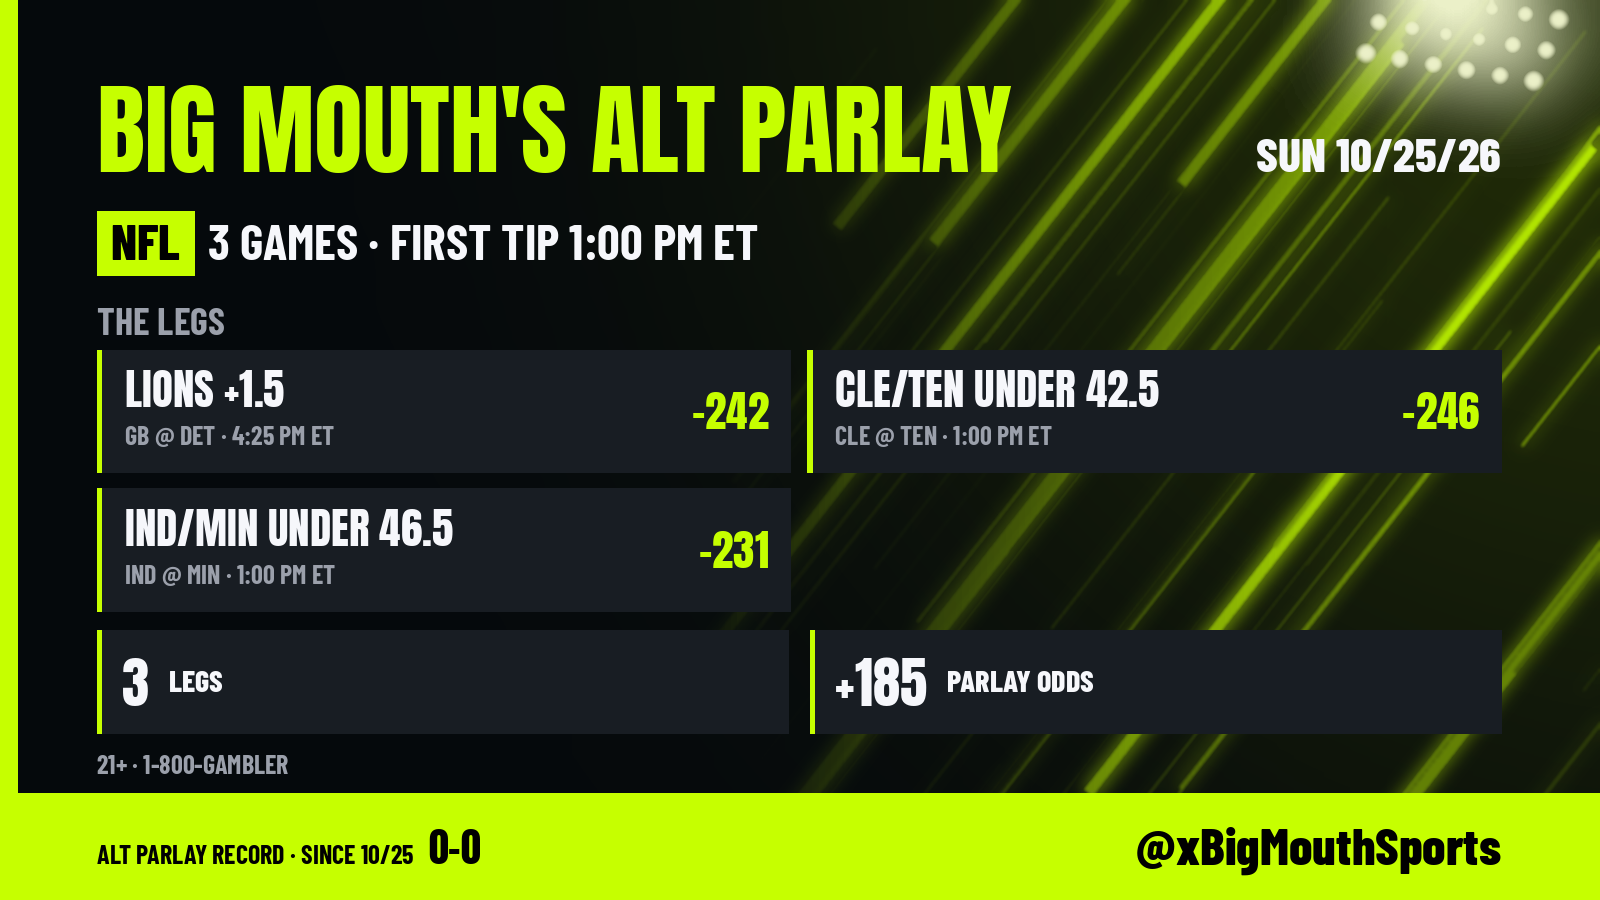
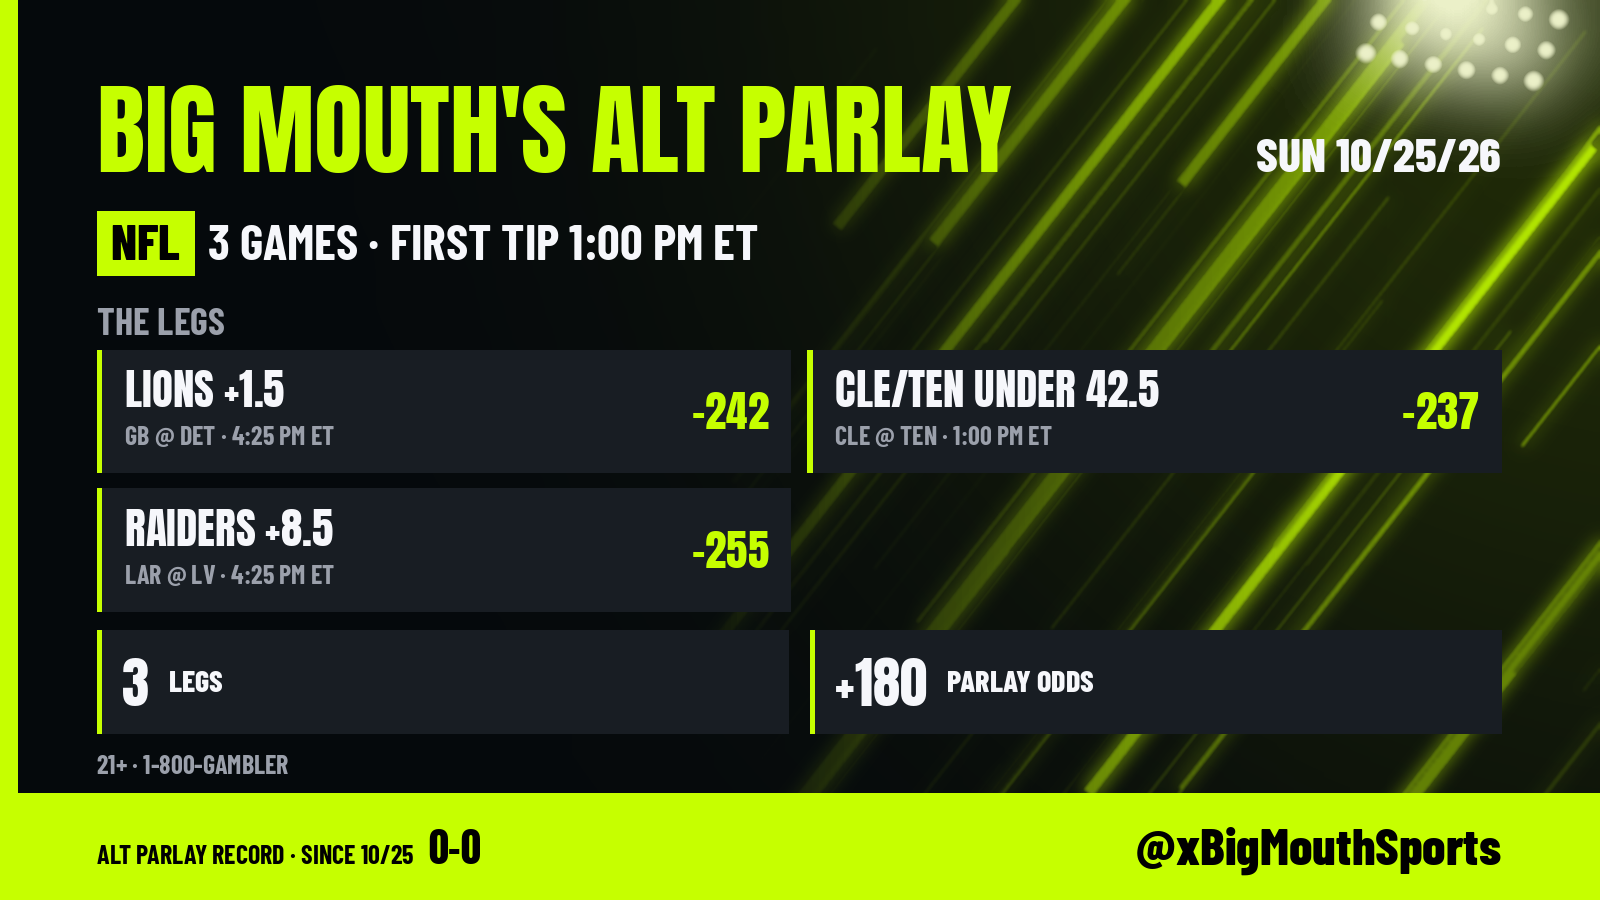
bet/1025-alt: noon lock — Lions+1.5 / CLE-TEN U42.5 / Raiders+8.5 (drop IND/MIN)

diff --git a/bet/1025-alt/index.html b/bet/1025-alt/index.html
@@ -1,10 +1,10 @@
 <!DOCTYPE html><html lang="en"><head><meta charset="utf-8"><meta name="viewport" content="width=device-width,initial-scale=1">
-<title>Big Mouth&#x27;s Alt Parlay (Sun 10/25/26) · Big Mouth Sports</title><meta name="description" content="Lions +1.5 · CLE/TEN Under 42.5 · IND/MIN Under 46.5 · +185">
+<title>Big Mouth&#x27;s Alt Parlay (Sun 10/25/26) · Big Mouth Sports</title><meta name="description" content="Lions +1.5 · CLE/TEN Under 42.5 · Raiders +8.5 · +180">
 <link rel="canonical" href="https://bigmouthsportsbets.com/bet/1025-alt/"><link rel="icon" type="image/png" href="/logo.png">
 <meta property="og:type" content="website"><meta property="og:site_name" content="Big Mouth Sports"><meta property="og:url" content="https://bigmouthsportsbets.com/bet/1025-alt/">
-<meta property="og:title" content="Big Mouth&#x27;s Alt Parlay · Sun 10/25/26 · +185"><meta property="og:description" content="Lions +1.5 · CLE/TEN Under 42.5 · IND/MIN Under 46.5 · +185. Load it in one tap.">
+<meta property="og:title" content="Big Mouth&#x27;s Alt Parlay · Sun 10/25/26 · +180"><meta property="og:description" content="Lions +1.5 · CLE/TEN Under 42.5 · Raiders +8.5 · +180. Load it in one tap.">
 <meta property="og:image" content="https://bigmouthsportsbets.com/bet/1025-alt/card.png"><meta property="og:image:width" content="1600"><meta property="og:image:height" content="900"><meta name="twitter:card" content="summary_large_image"><meta name="twitter:site" content="@xBigMouthSports">
-<meta name="twitter:title" content="Big Mouth&#x27;s Alt Parlay · Sun 10/25/26 · +185"><meta name="twitter:description" content="Lions +1.5 · CLE/TEN Under 42.5 · IND/MIN Under 46.5 · +185. Load it in one tap.">
+<meta name="twitter:title" content="Big Mouth&#x27;s Alt Parlay · Sun 10/25/26 · +180"><meta name="twitter:description" content="Lions +1.5 · CLE/TEN Under 42.5 · Raiders +8.5 · +180. Load it in one tap.">
 <meta name="twitter:image" content="https://bigmouthsportsbets.com/bet/1025-alt/card.png"><style>*{box-sizing:border-box;margin:0}body{background:#0b0d0a;color:#f4f6ef;font:16px/1.4 -apple-system,BlinkMacSystemFont,"Segoe UI",Roboto,Arial,sans-serif;
 -webkit-font-smoothing:antialiased}main{max-width:480px;margin:0 auto;padding:18px 16px 28px}
 .top{display:flex;align-items:center;gap:10px;margin-bottom:18px}.top img{width:40px;height:40px;border-radius:50%}
@@ -25,7 +25,7 @@ h2{font:800 22px/1.1 Impact,"Anton","Arial Narrow",sans-serif;color:#c6ff1a;text
 footer{border-top:1px solid #2a2e28;padding-top:14px;color:#9aa39a;font-size:13px}footer b{color:#f4f6ef}footer a{color:#c6ff1a}</style></head><body><main>
 <div class="top"><img src="/logo.png" alt="Big Mouth Sports" width="40" height="40"><div><b>BIG MOUTH SPORTS</b><span>@xBigMouthSports</span></div></div>
 <h1>Big Mouth&#x27;s Alt Parlay</h1><p class="meta"><span class="tag">NFL</span>Sun 10/25/26 · 3 legs</p>
-<div class="leg"><div><b>Lions +1.5</b><span>NFL · GB @ DET · 4:25 PM ET</span></div><i>-242</i></div><div class="leg"><div><b>CLE/TEN Under 42.5</b><span>NFL · CLE @ TEN · 1:00 PM ET</span></div><i>-246</i></div><div class="leg"><div><b>IND/MIN Under 46.5</b><span>NFL · IND @ MIN · 1:00 PM ET</span></div><i>-231</i></div><div class="tot"><span>Parlay odds (DK)</span><b>+185</b></div><p class="note">Legs multiplied. Confirm in app. DK odds as of 9:35 AM ET. Odds can move.</p>
-<a class="btn dk" href="https://sportsbook.draftkings.com/?outcomes=0HC86846620P150_1+0OU86846694U4250_3+0OU86846495U4650_3" rel="nofollow noopener">Load on DraftKings</a><a class="btn fd" href="https://sportsbook.fanduel.com/addToBetslip?marketId[0]=42.617882931&amp;selectionId[0]=12248275&amp;marketId[1]=42.617883701&amp;selectionId[1]=12194315&amp;marketId[2]=42.617883406&amp;selectionId[2]=12194307" rel="nofollow noopener">Load on FanDuel</a>
+<div class="leg"><div><b>Lions +1.5</b><span>NFL · GB @ DET · 4:25 PM ET</span></div><i>-242</i></div><div class="leg"><div><b>CLE/TEN Under 42.5</b><span>NFL · CLE @ TEN · 1:00 PM ET</span></div><i>-237</i></div><div class="leg"><div><b>Raiders +8.5</b><span>NFL · LAR @ LV · 4:25 PM ET</span></div><i>-255</i></div><div class="tot"><span>Parlay odds (DK)</span><b>+180</b></div><p class="note">Legs multiplied. Confirm in app. DK odds as of 12:06 PM ET. Odds can move.</p>
+<a class="btn dk" href="https://sportsbook.draftkings.com/?outcomes=0HC86846620P150_1+0OU86846694U4250_3+0HC86846549P850_1" rel="nofollow noopener">Load on DraftKings</a><a class="btn fd" href="https://sportsbook.fanduel.com/addToBetslip?marketId[0]=42.617882931&amp;selectionId[0]=12248275&amp;marketId[1]=42.617883701&amp;selectionId[1]=12194315&amp;marketId[2]=42.617883024&amp;selectionId[2]=35903731" rel="nofollow noopener">Load on FanDuel</a>
 <footer><p><b>21+ · 1-800-GAMBLER</b></p><p>Gambling problem? Call or text 1-800-GAMBLER. Bet only what you can afford to lose. Picks are tracked, not guaranteed.</p>
 <p style="margin-top:8px"><a href="/">Full record at bigmouthsportsbets.com</a></p></footer></main></body></html>
